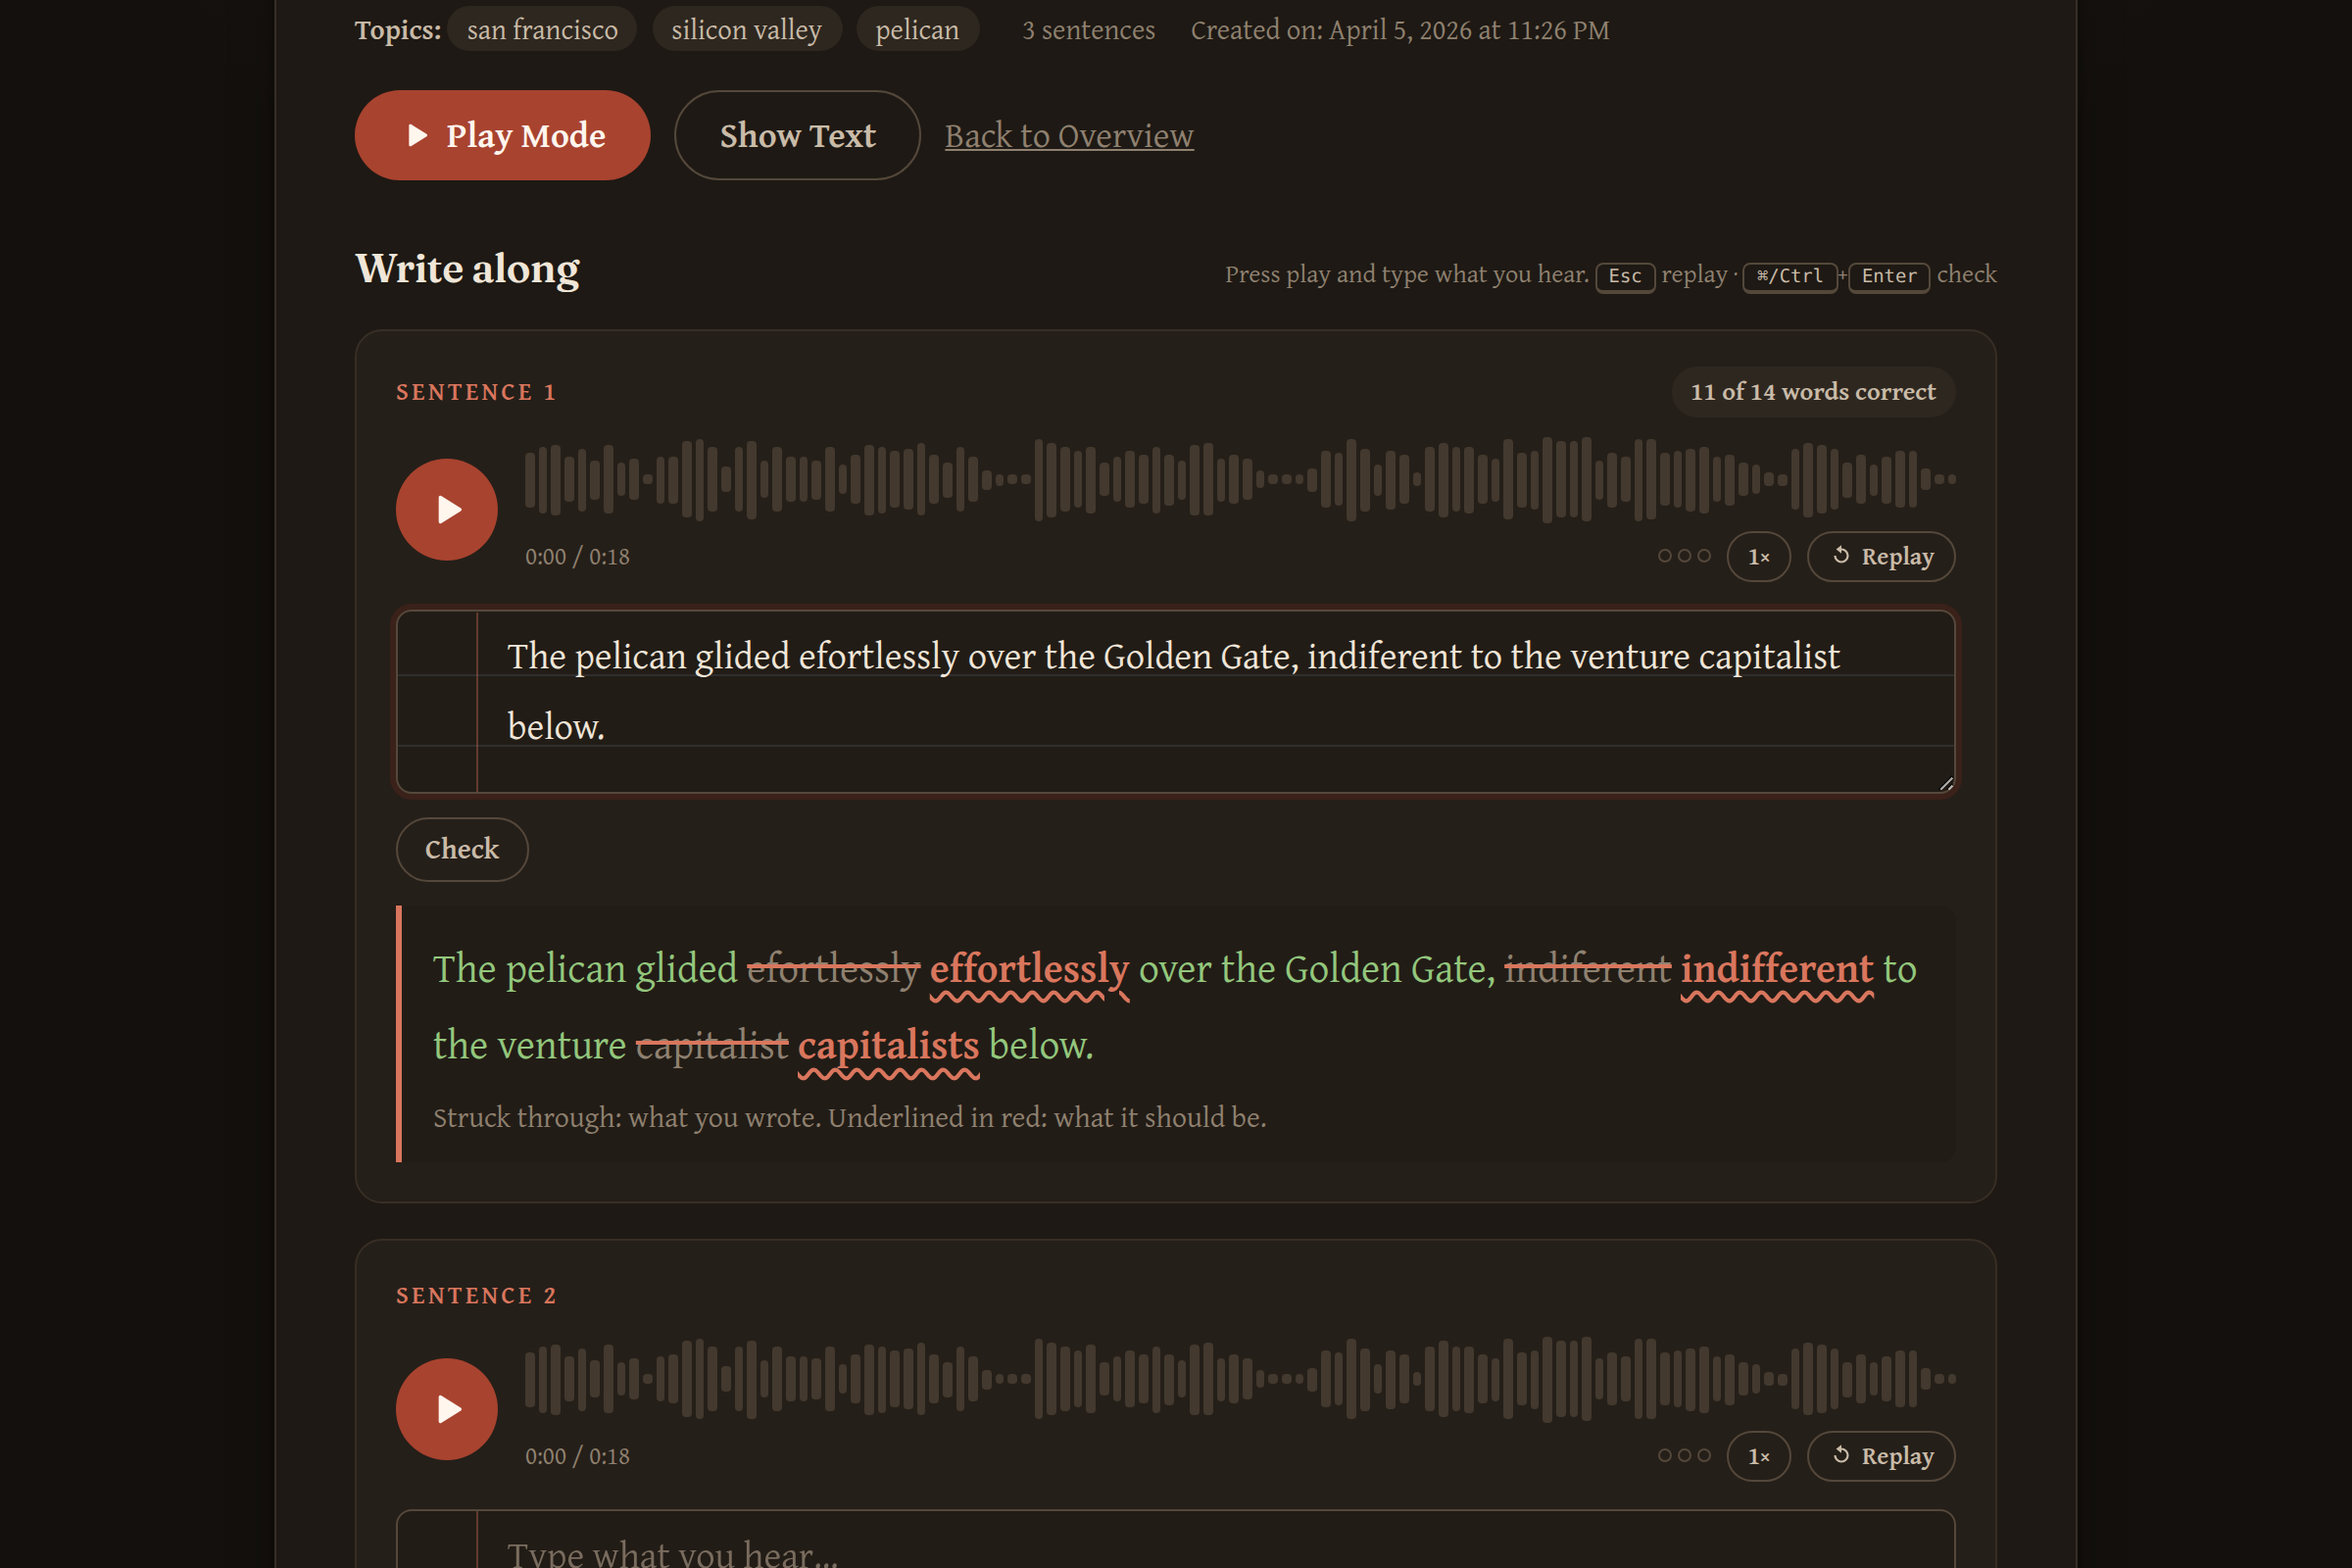
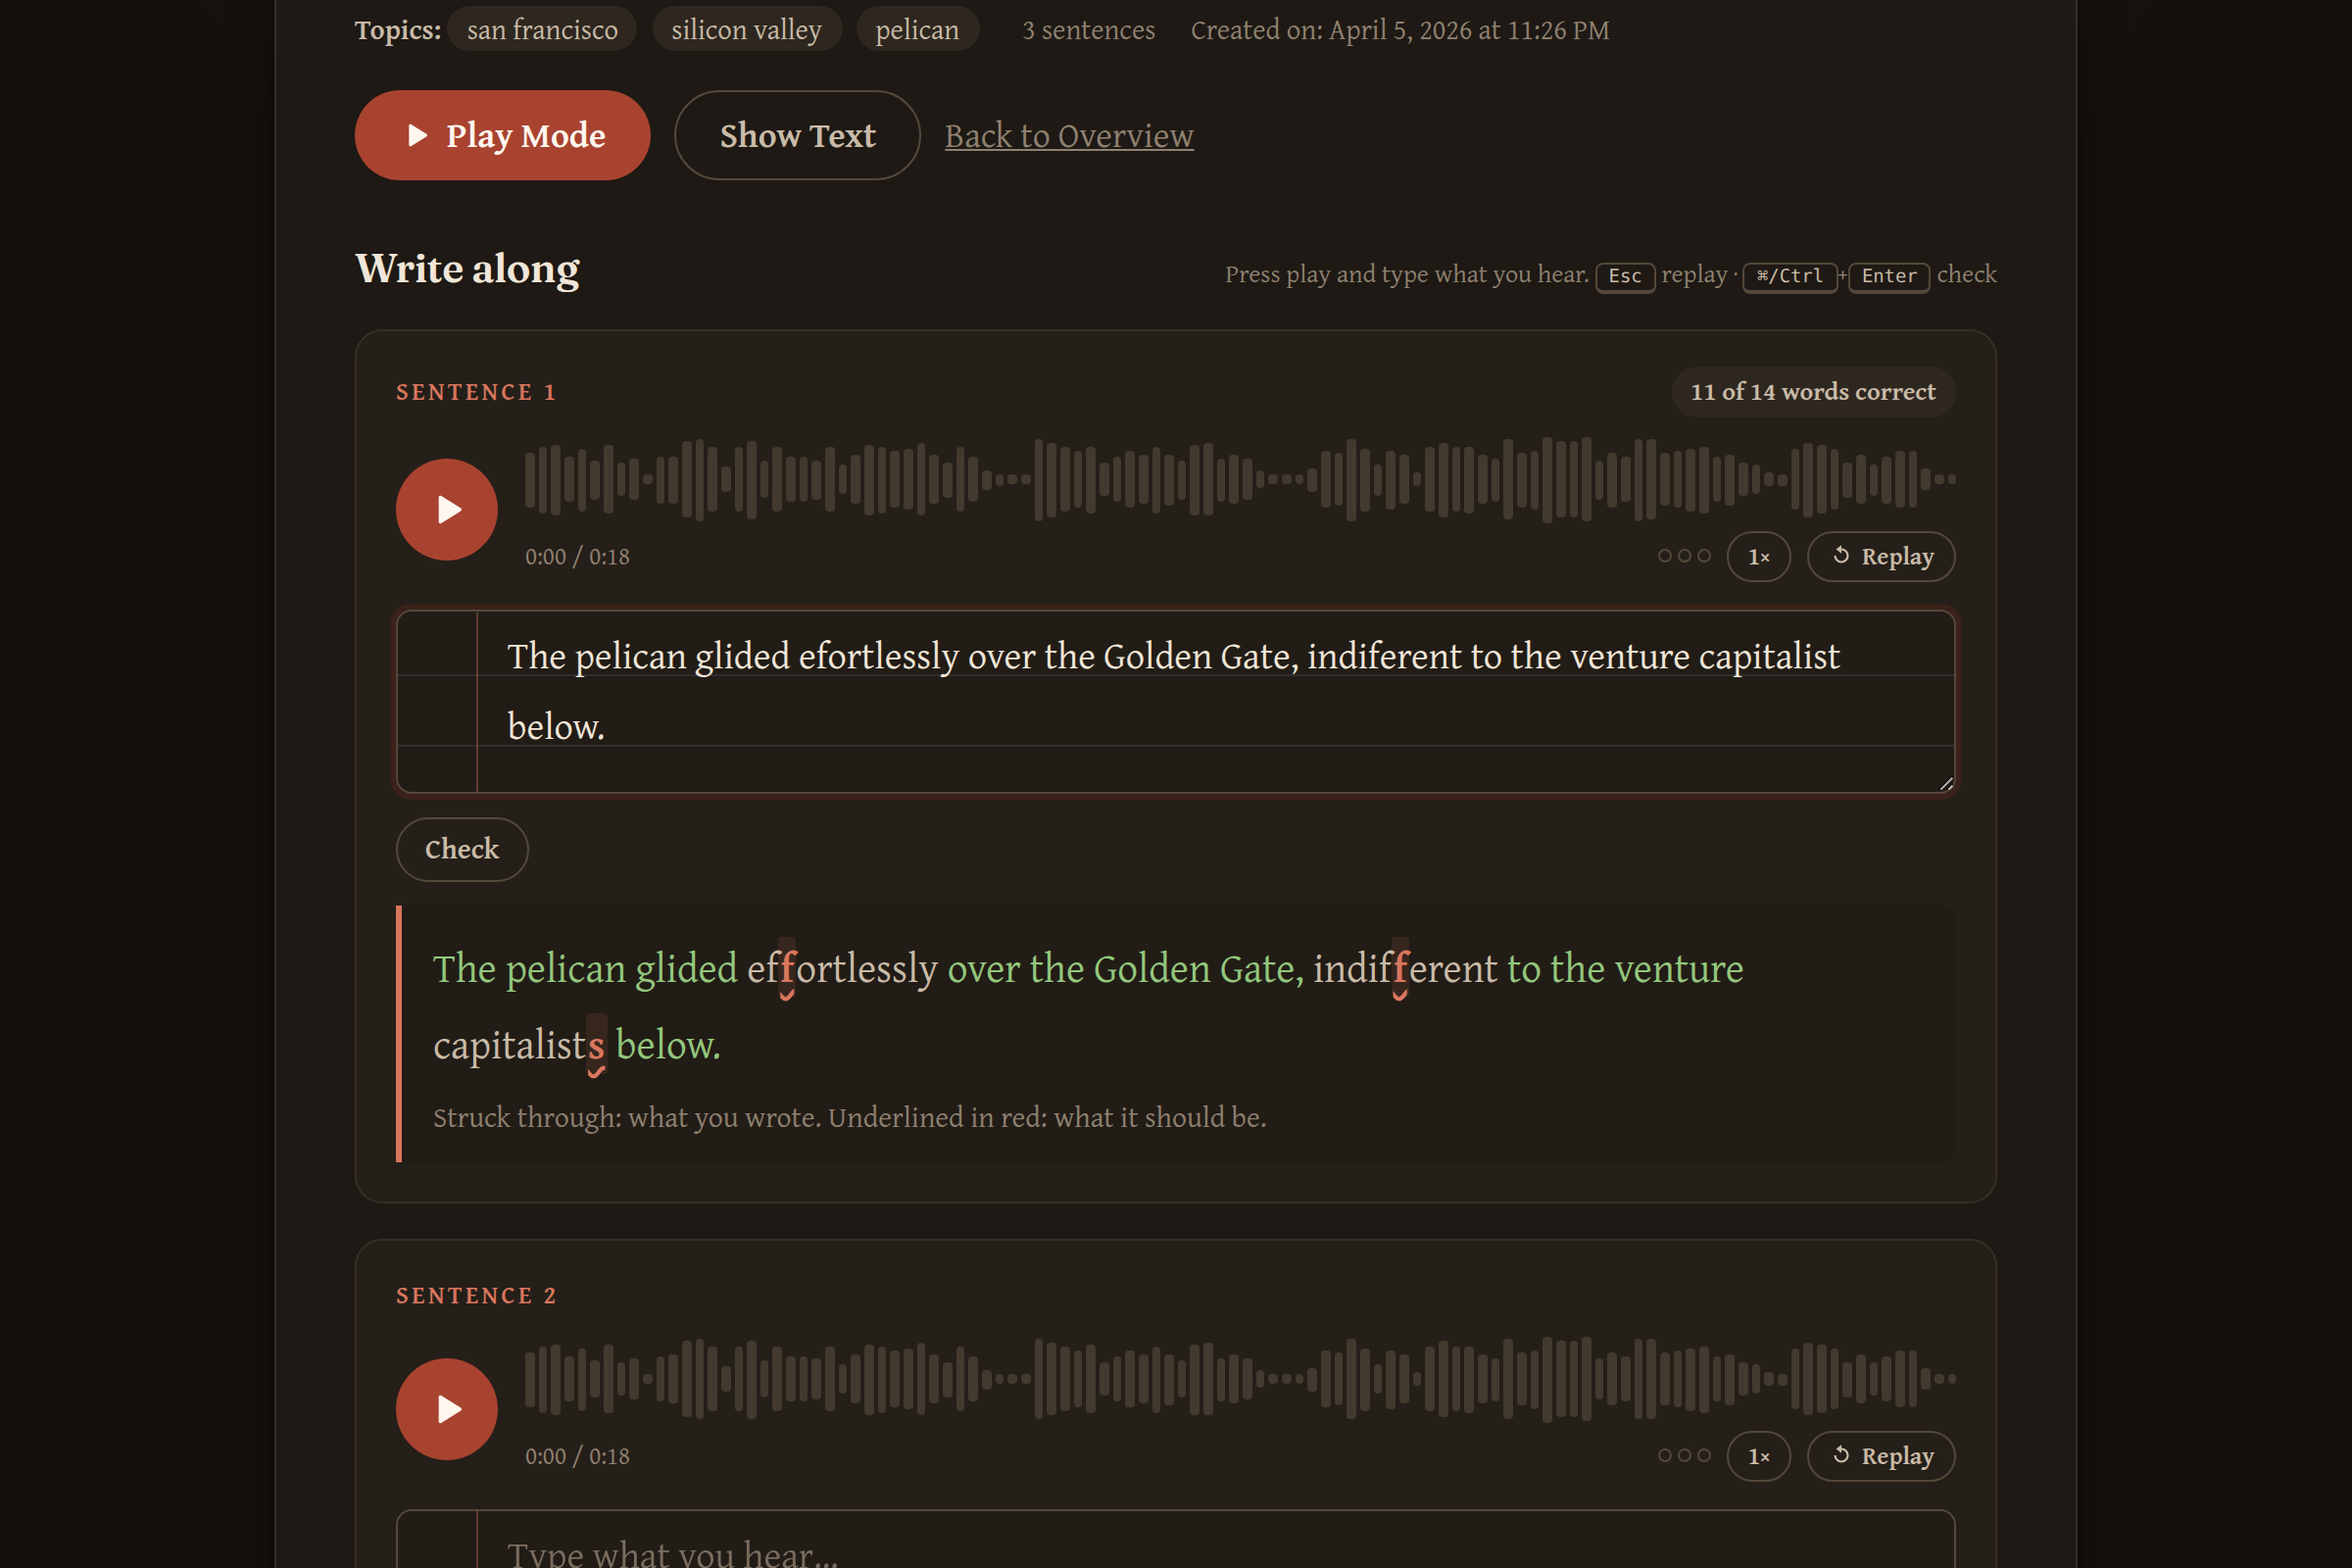
Bring the READMEs up to date
- Top-level README: the feature list mentions letter-level marks, drafts
  on the device, PIN guessing protection and security headers.
- webapp/README.md had drifted: it described a Dutch-only, 8-sentence
  app with a "Nieuw Dictee" button and "Toon Tekst" review. It now
  covers both languages, write-along with its shortcuts, play mode,
  storage backends and npm test, and the project structure lists
  public/, test/, scripts/, every view and the utils modules.
- SESSION_SECRET also signs the play-mode PIN cookie; noted in
  .env.example, the README and VERCEL_DEPLOYMENT.md.
- Regenerated Diction-screenshot-01.png with the letter-level marks.

Claude-Session: https://claude.ai/code/session_01Qm3dbcZCxB3pEvdPEsfqeF

Changed region(s): [[0.1875, 0.5938, 0.8125, 0.6875]]

diff --git a/webapp/README.md b/webapp/README.md
@@ -1,15 +1,22 @@
-# Dutch Dictation Webapp
+# Diction webapp
 
-A web application for generating Dutch dictations (dictee) using Claude AI and ElevenLabs text-to-speech.
+The Express app behind Diction: it generates dictations in Dutch or American
+English with Claude, speaks them with ElevenLabs, and lets you write along.
+See the [top-level README](../README.md) for the product overview, play
+mode, access control and deployment.
 
 ## Features
 
-- Generate Dutch dictations based on 3 custom topics
-- 8 sentences per dictation with varying difficulty
-- Audio playback for each sentence using ElevenLabs TTS
-- Hide/show text for self-assessment
-- Persistent storage of dictations
-- Delete old dictations
+- Generate a dictation from 3 topics, with 1–8 sentences of varying difficulty,
+  in Dutch or American English
+- Audio for each sentence using ElevenLabs TTS, in a custom player
+  (waveform, replay, 0.75× speed, play count)
+- Write along: type each sentence and check it; mistakes are marked word by
+  word, and near misses letter by letter
+- Drafts are kept in the browser, so a reload doesn't lose your writing
+- PIN-protected group play mode for a shared screen
+- Admin-only delete via Google login
+- Storage on the local filesystem or Vercel Blob
 
 ## Setup
 
@@ -63,13 +70,28 @@ npm run dev
 
 The application will be available at http://localhost:3000
 
+### 4. Run the Tests
+
+```bash
+npm test
+```
+
+Uses Node's built-in test runner (`node --test`); no API keys needed.
+
 ## Usage
 
-1. **Create a dictation**: Click "Nieuw Dictee" and enter 3 topics
-2. **Wait for generation**: The app will generate sentences and audio (30-60 seconds)
-3. **Practice**: Play each sentence audio and write it down
-4. **Review**: Click "Toon Tekst" to reveal all sentences and check your work
-5. **Manage**: View all dictations on the home page, delete old ones as needed
+1. **Create a dictation**: open `/create` (behind a token or passphrase, see
+   the top-level README), choose a language, enter 3 topics, a sentence count
+   and optionally a play-mode PIN
+2. **Wait for generation**: sentences and audio take roughly 30–60 seconds
+3. **Write along**: on the dictation page, play a sentence and type it in the
+   lined field under it; `Esc` replays, `⌘/Ctrl+Enter` checks
+4. **Review**: each check marks what differs and gives a score per sentence
+   and for the session; "Show Text" reveals all sentences
+5. **Play as a group**: with a PIN set, "Play Mode" shows one sentence at a
+   time on a big screen
+6. **Manage**: all dictations are listed under `/dictations`; admins can
+   delete them
 
 ## Architecture
 
@@ -107,24 +129,45 @@ webapp/
 │   ├── index.js          # Home page + dictation list
 │   ├── create.js         # Create dictation
 │   └── dictation.js      # View/play/delete dictation
-├── utils/                 # Web-layer concerns: CSRF, rate limiting, auth
+├── utils/                 # Web-layer concerns
+│   ├── security.js       # CSRF, escaping, rate limiting, PIN tokens, admin check
+│   ├── securityHeaders.js # CSP and other response headers
+│   ├── templates.js      # {{placeholder}} rendering of views/
+│   ├── createAccess.js   # Token/passphrase gate for /create
+│   └── googleAuth.js     # Google OAuth + signed admin session
 ├── views/                 # HTML templates
-│   ├── layout.html       # Base layout
+│   ├── layout.html       # Base layout (nav, theme, footer)
 │   ├── home.html         # Landing page
+│   ├── dictations.html   # List of dictations
 │   ├── create.html       # Creation form
-│   └── dictation.html    # Playback page
-└── dictations/            # Storage directory (auto-created)
+│   ├── dictation.html    # Detail page with write-along
+│   ├── play.html         # Play mode (standalone, for projection)
+│   ├── play-pin.html     # PIN entry for play mode
+│   ├── passphrase.html   # Passphrase entry for /create
+│   ├── admin-login.html  # Google sign-in
+│   └── 403.html          # Create access denied
+├── public/                # Static assets (no build step)
+│   ├── style.css         # All styles, light and dark theme
+│   ├── player.js         # Audio player enhancement (window.DictionPlayer)
+│   ├── diff.js           # Word/letter comparison (window.DictionDiff)
+│   ├── practice.js       # Write-along checking and drafts
+│   └── favicon.svg
+├── scripts/               # Token helpers (npm run token:*)
+├── test/                  # node --test suites
+└── dictations/            # Filesystem storage (auto-created, gitignored)
     └── {id}/
-        ├── metadata.json # Topics, sentences, timestamp
+        ├── metadata.json # Title, topics, sentences, language, PIN, timestamp
         └── 0.mp3, ...    # Audio files
 ```
 
 ## Notes
 
-- Dictations are stored in the `dictations/` directory
+- Locally and in Docker, dictations are stored in the `dictations/`
+  directory; on Vercel they go to Vercel Blob (see `core/storage/`)
 - Each dictation has a unique 8-character ID
-- Audio files are served as static files
-- No database required - everything is file-based
+- With filesystem storage only `/dictations/<id>/<n>.mp3` is served
+  statically; `metadata.json` holds the PIN and is never exposed
+- No database required
 - You can modify the generation prompts in `core/languages/` to add example sentences or adjust the format
 ## Troubleshooting
 
@@ -139,7 +182,8 @@ webapp/
 
 **Audio files not playing**
 - Ensure the dictations directory exists and has proper permissions
-- Check browser console for errors
+- Check browser console for errors; a "Refused to load" message means the
+  Content-Security-Policy in `utils/securityHeaders.js` blocks the audio's origin
 
 ## License
 

diff --git a/README.md b/README.md
@@ -10,11 +10,11 @@ Inspired by the [Groot Dictee der Nederlandse Taal](https://dictees.nl/alle-dict
 - 🎙 Text-to-speech with ElevenLabs
 - 🌐 Multi-language UI (Dutch and American English) with cookie-based language switcher
 - 🎯 AI-generated titles for each dictation
-- ✍ Write-along practice: custom audio player (real waveform, replay, 0.75× speed, play count) with lined-paper answer fields that are corrected word by word
+- ✍ Write-along practice: custom audio player (real waveform, replay, 0.75× speed, play count) with lined-paper answer fields, corrected word by word and near misses letter by letter; drafts are kept on your device
 - 🎲 Group play mode — PIN-protected sequential playback optimized for projection on a shared screen
 - 🔒 Passphrase gate and secret token protection for controlled access
 - 🐳 Docker support for easy deployment
-- 🛡 Built-in security: input validation, XSS prevention, rate limiting
+- 🛡 Built-in security: input validation, XSS prevention, rate limiting (including PIN guessing), security headers
 
 ## Example
 
@@ -193,7 +193,7 @@ GOOGLE_CLIENT_ID=your-client-id
 GOOGLE_CLIENT_SECRET=your-client-secret
 # Comma-separated allowlist of Google emails granted admin access
 ADMIN_EMAILS=you@example.com
-# Secret used to sign the admin session cookie (HMAC)
+# Secret used to sign the admin session and play-mode PIN cookies (HMAC)
 SESSION_SECRET=a-long-random-string
 ```
 

diff --git a/VERCEL_DEPLOYMENT.md b/VERCEL_DEPLOYMENT.md
@@ -47,7 +47,7 @@ Project → **Settings → Environment Variables**. Add the following for the
 | `ANTHROPIC_API_KEY` | <https://console.anthropic.com/> | Used to generate the dictation sentences and titles. |
 | `ELEVENLABS_API_KEY` | <https://elevenlabs.io/> | Text-to-speech. |
 | `ELEVENLABS_VOICE_ID` | ElevenLabs voice library | Default (Dutch) voice. |
-| `SESSION_SECRET` | generate (see below) | Signs the admin session cookie. |
+| `SESSION_SECRET` | generate (see below) | Signs the admin session and play-mode PIN cookies. |
 
 ### Recommended / optional
 
